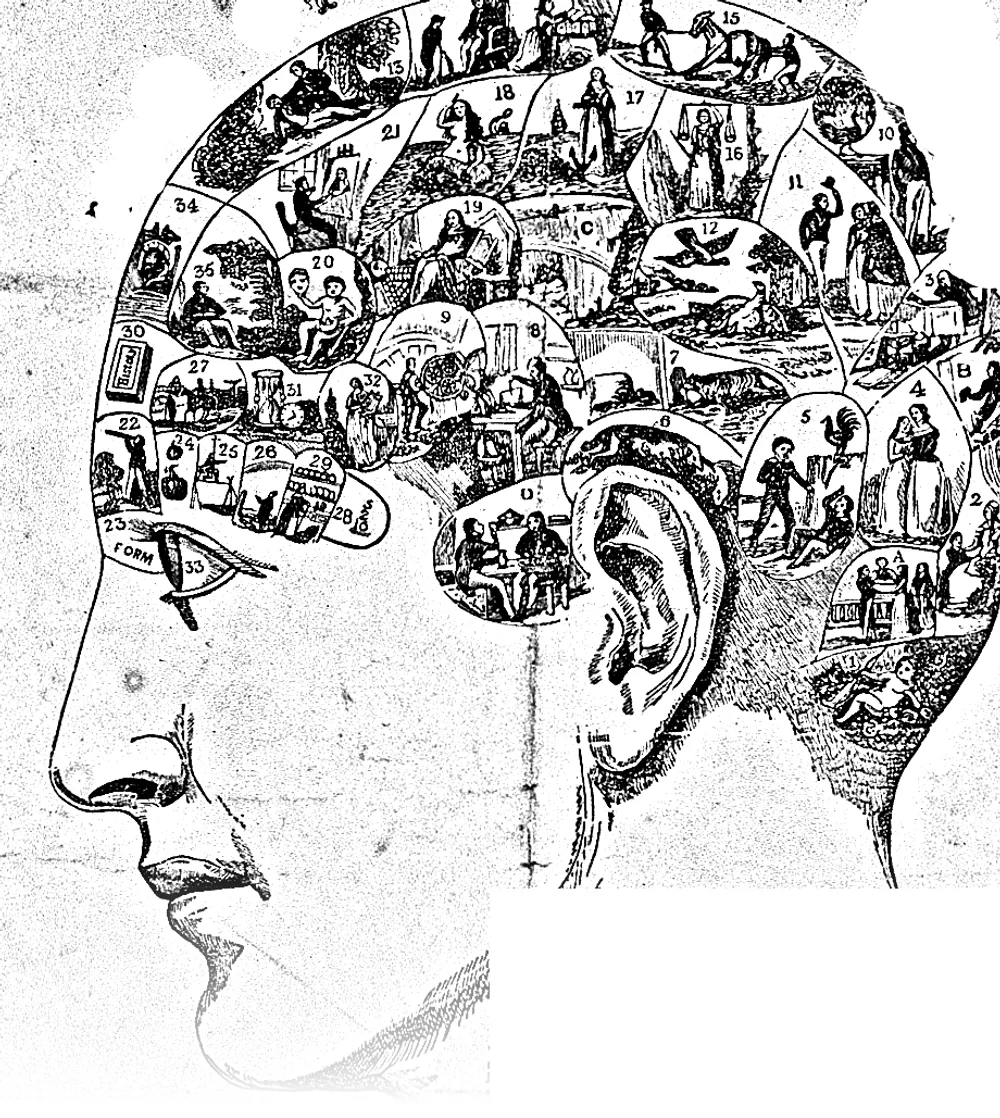
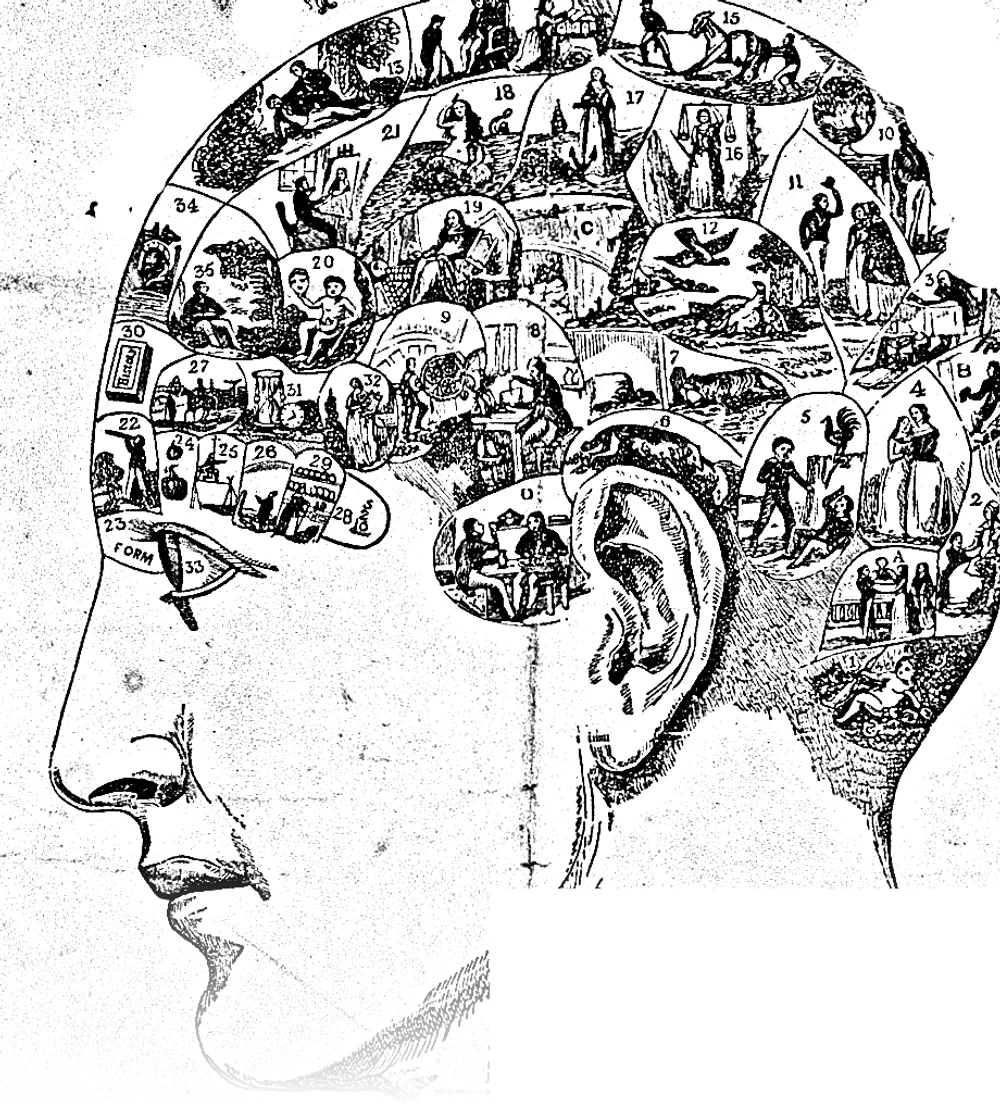
fix(web): hero white box — bake contrast into the file, drop the CSS filter
The contrast(1.18) filter I added isolated the img element, which breaks
mix-blend-multiply: the engraving's white background stopped compositing into
the paper and showed as a white rectangle. Removed the filter and instead
baked the boldness into symbolic-head.webp (flatten curve 1.9→2.35 / -215→-290).
Multiply works again — the engraving melds into the paper, no white box — and
it's crisper/darker than before.

diff --git a/web/src/app/_components/EngravedSelf.tsx b/web/src/app/_components/EngravedSelf.tsx
@@ -35,7 +35,7 @@ export function EngravedSelf() {
           alt="Engraving of a head in profile whose brain is drawn as dozens of tiny scenes from a life"
           width={1000}
           height={1118}
-          className="mx-auto block w-full mix-blend-multiply [filter:contrast(1.18)] sm:w-[70%]"
+          className="mx-auto block w-full mix-blend-multiply sm:w-[70%]"
         />
         <div className="hidden sm:block">
           {NOTES.map((n) => {
